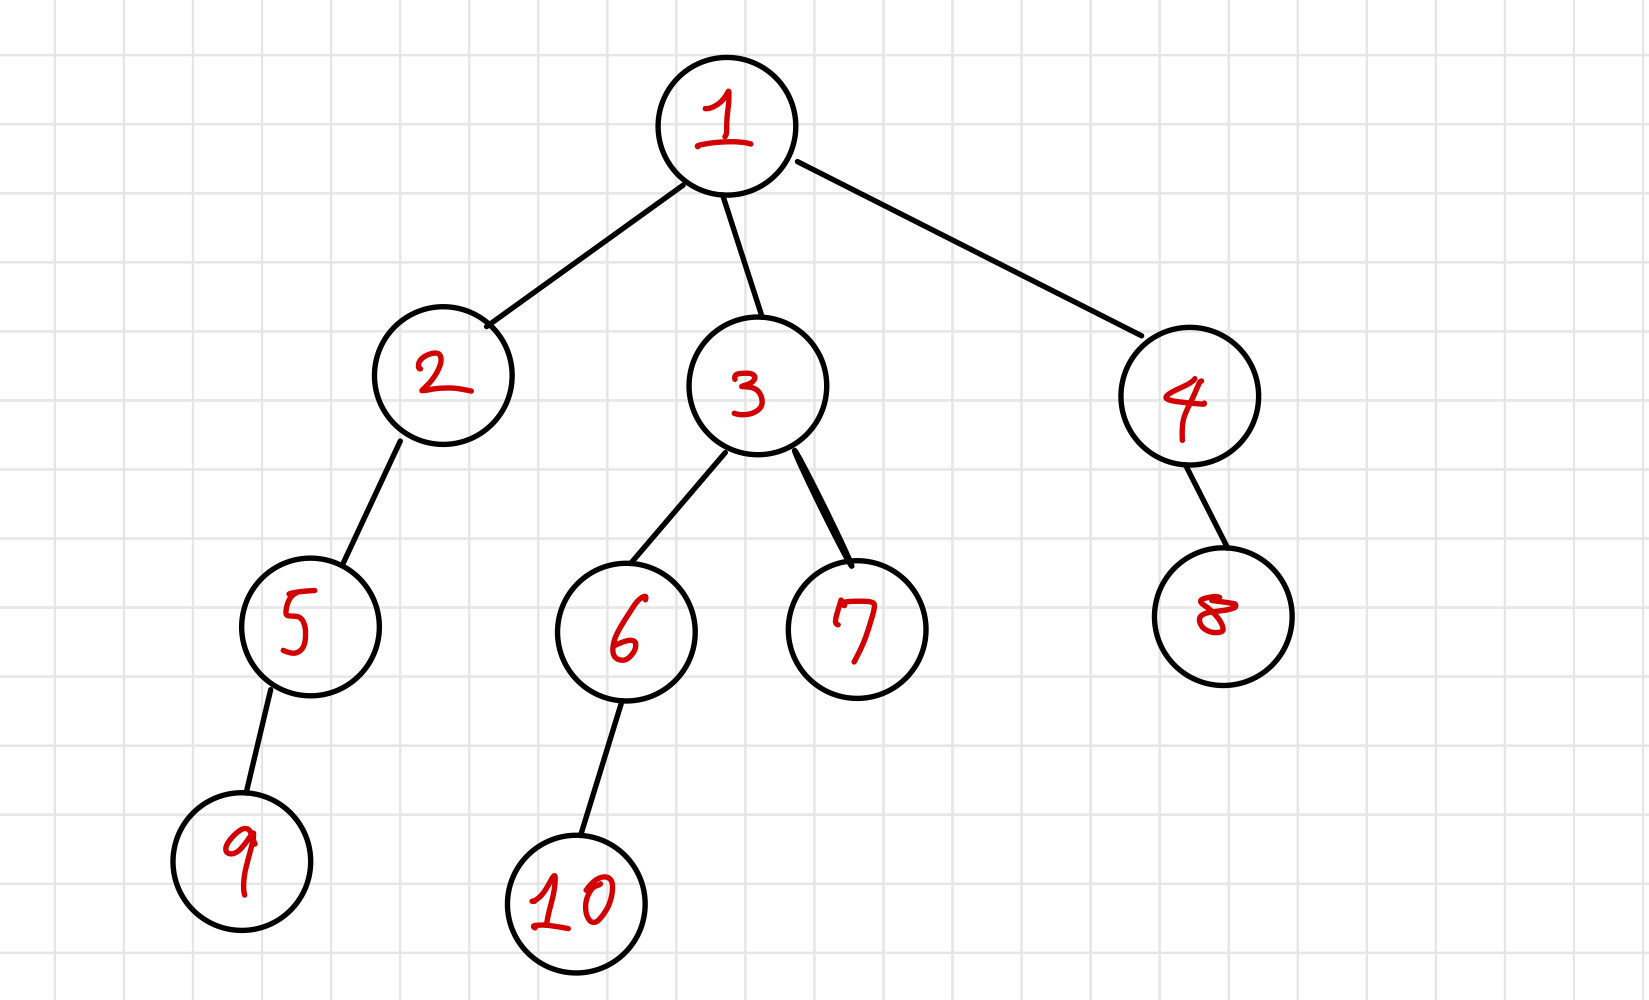
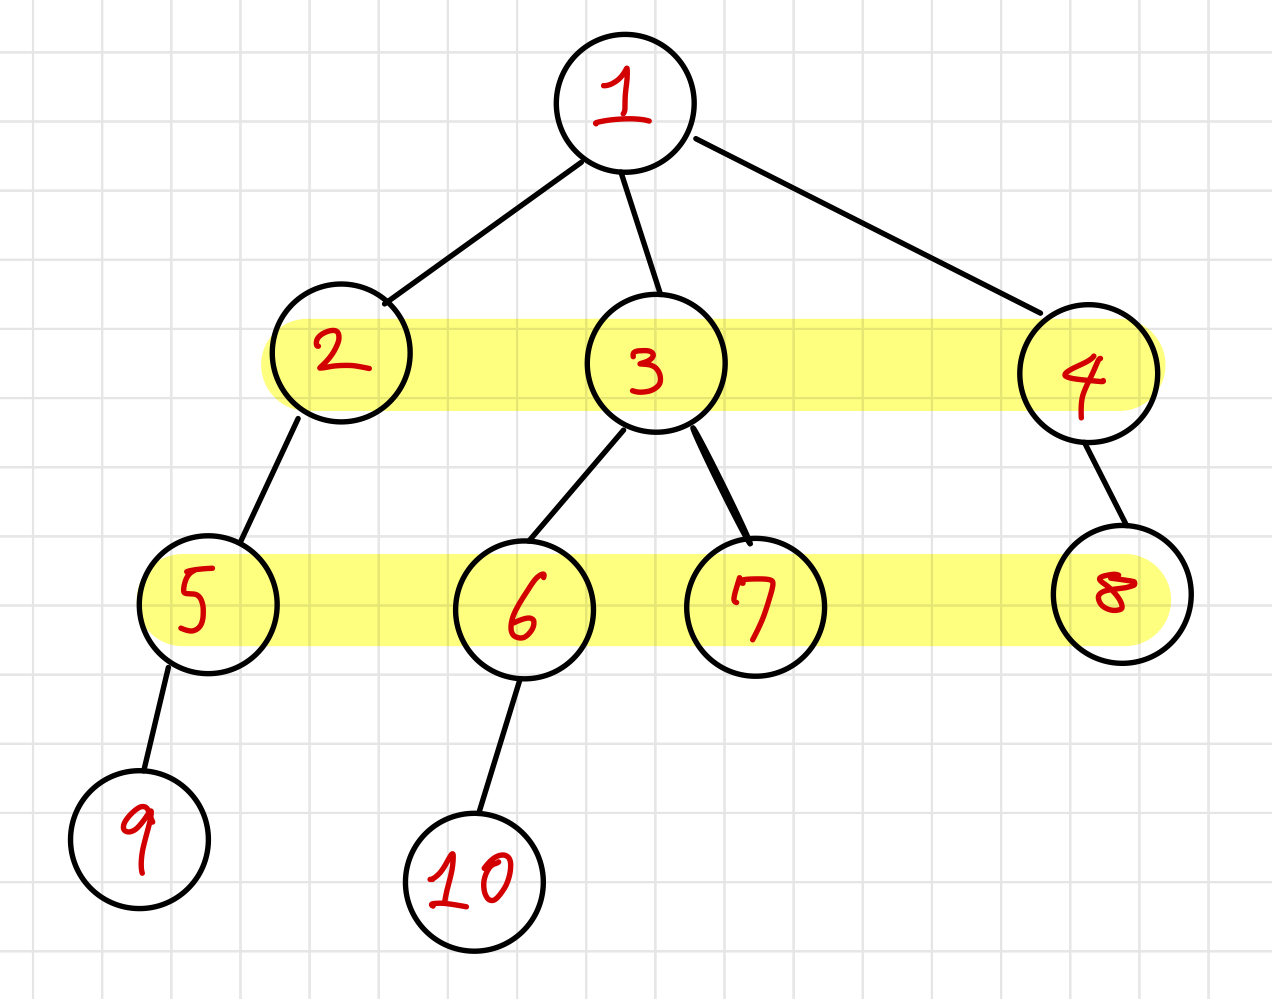
add: dfs bfs ex

diff --git a/Algorithm_Notes/BFS_DFS.md b/Algorithm_Notes/BFS_DFS.md
@@ -10,6 +10,39 @@
 
 but 큐를 사용하지 않아도 구현이 가능하긴함
 
+1. 탐색 시작 노드를 큐에 삽입하고 방문 처리
+2. 큐에서 노드르 꺼내 해당 노드의 방문하지 않은 모든 인접 노드를 모두 큐에 삽입하고 방문 처리
+3. 2번 과정을 더 이상 수행할 수 없을 때까지 반복
+
+```
+def BFS(start_node):
+
+    	# queue 에 첫 번째 노드 넣으면서 시작
+        queue = [start_node, ]
+
+        while True:
+            # queue가 비어있는지 확인
+            if len(queue) == 0:
+            	print('All node searched.')
+                return None
+
+            # queue에서 맨 앞의 노드 를 dequeue (0번 인덱스를 pop)
+            node = queue.pop(0)
+
+            # 만약 node가 찾고자 하는 target이라면 서치 중단
+            if node == TARGET:
+            	print('The target found.')
+                return node
+
+            # node의 자식을 expand 해서 children에 저장
+            children = expand(node)
+
+            # children을 stack에 쌓기
+            queue.extend(children)
+
+            # 이렇게 target을 찾거나, 전부 탐색해서 queue가 빌 때까지 while문 반복
+```
+
 # DFS
 
 > Depth First Search (깊이 우선 탐색)
@@ -18,4 +51,37 @@ but 큐를 사용하지 않아도 구현이 가능하긴함
 
 시작점인 root에서 갈 수 있는 한 끝까지 탐색해 leaf 노드를 방문하고 이전에 방문하지 않았던 노드를 선택해 방문
 
-스택(Stack)을 사용해 구현
+재귀함수 또는 스택(Stack)을 사용해 구현
+
+1. 탐색 시작 노드를 스택에 삽입해서 방문 처리 (이미 방문했던 노드를 다시 방문하지 않기 위해)
+2. 스택의 최상단 노드에 방문하지 않은 인접 노드가 있다면 그 노드를 스택에 껴넣고 방문 처리, 만약 방문하지 않은 인접 노드가 없다면 스택에서 최상단 노드를 꺼냄
+3. 2번의 과정을 더 이상 수행할 수 없을 때까지 반복
+
+```
+def DFS(start_node):
+
+    # stack에 첫 번째 노드를 넣으면서 시작
+    stack = [start_node,]
+
+    while True:
+        # stack이 비어있는지 확인
+        if len(stack) == 0:
+            print("All node searched")
+            return None
+
+        # stack에서 맨 위의 노드를 pop
+        node = stack.pop()
+
+        # 만약 노드가 찾고자 하는 target이라면 search 중단
+        if node == TARGET:
+            print("The target found")
+            return node
+
+        # 노드의 자식을 expend 해서 children에 저장
+        children = expend(node)
+
+        # children을 stack에 쌓기
+        stack.extend(children)
+
+        # 이렇게 target을 찾거나 전부 탐색해 stack이 빌 때까지 while문 반복
+```
